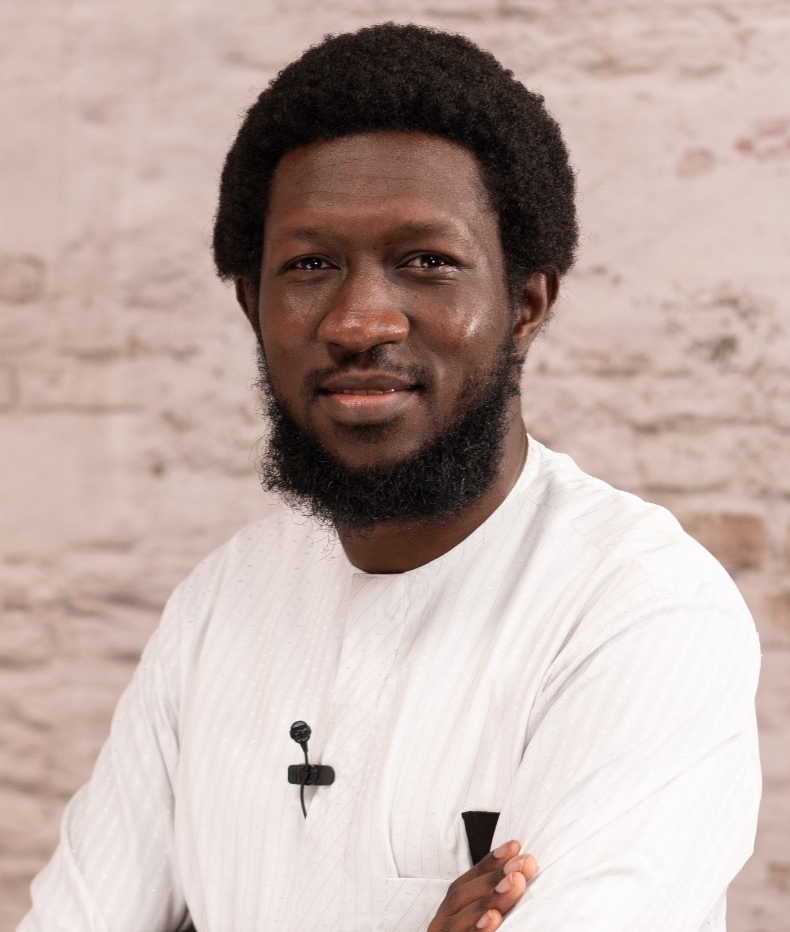
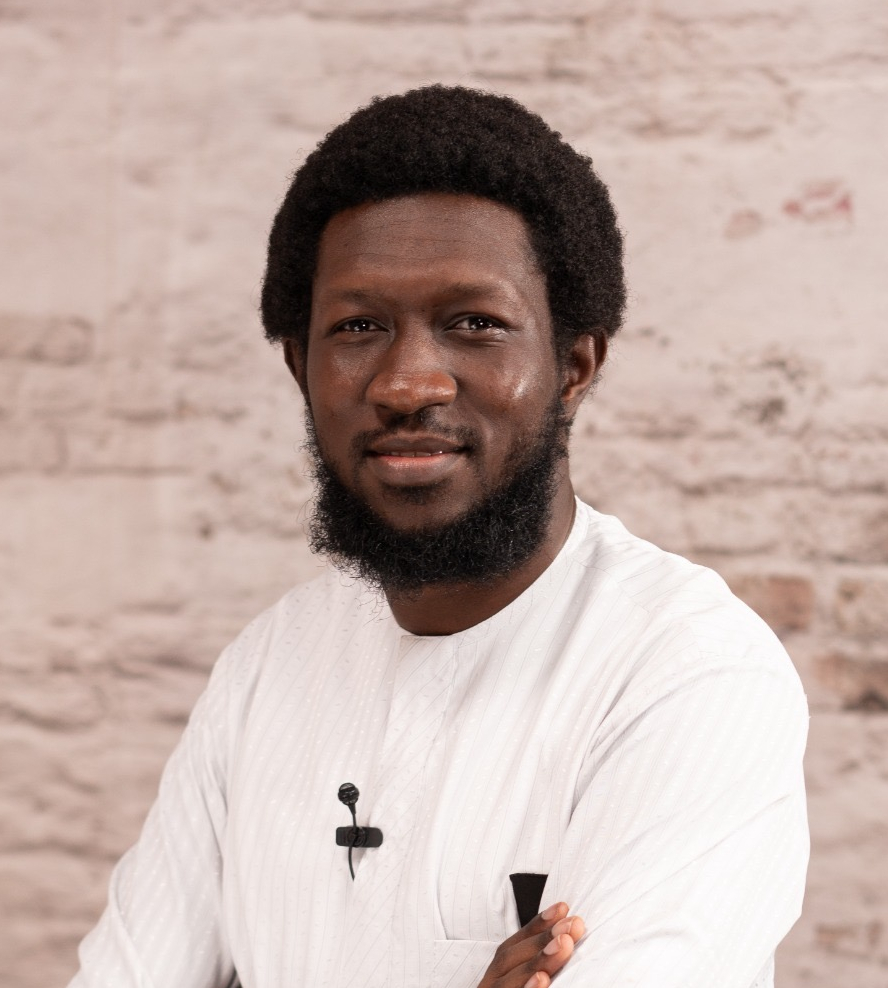
Minor image cropping

diff --git a/index.html b/index.html
@@ -120,7 +120,7 @@
           <a href="#" class="button button-link">North-West University</a>
         </div>
         <div class="decoration__data">
-          <img src="assets/img/tanja.jpg" alt="Prof. Tanja Verster" class="decoration__img">
+          <img src="assets/img/tanja_cropped.jpg" alt="Prof. Tanja Verster" class="decoration__img">
           <h3 class="decoration__title">Prof. Tanja Verster</h3>
           <a href="#" class="button button-link">North-West University</a>
         </div>
